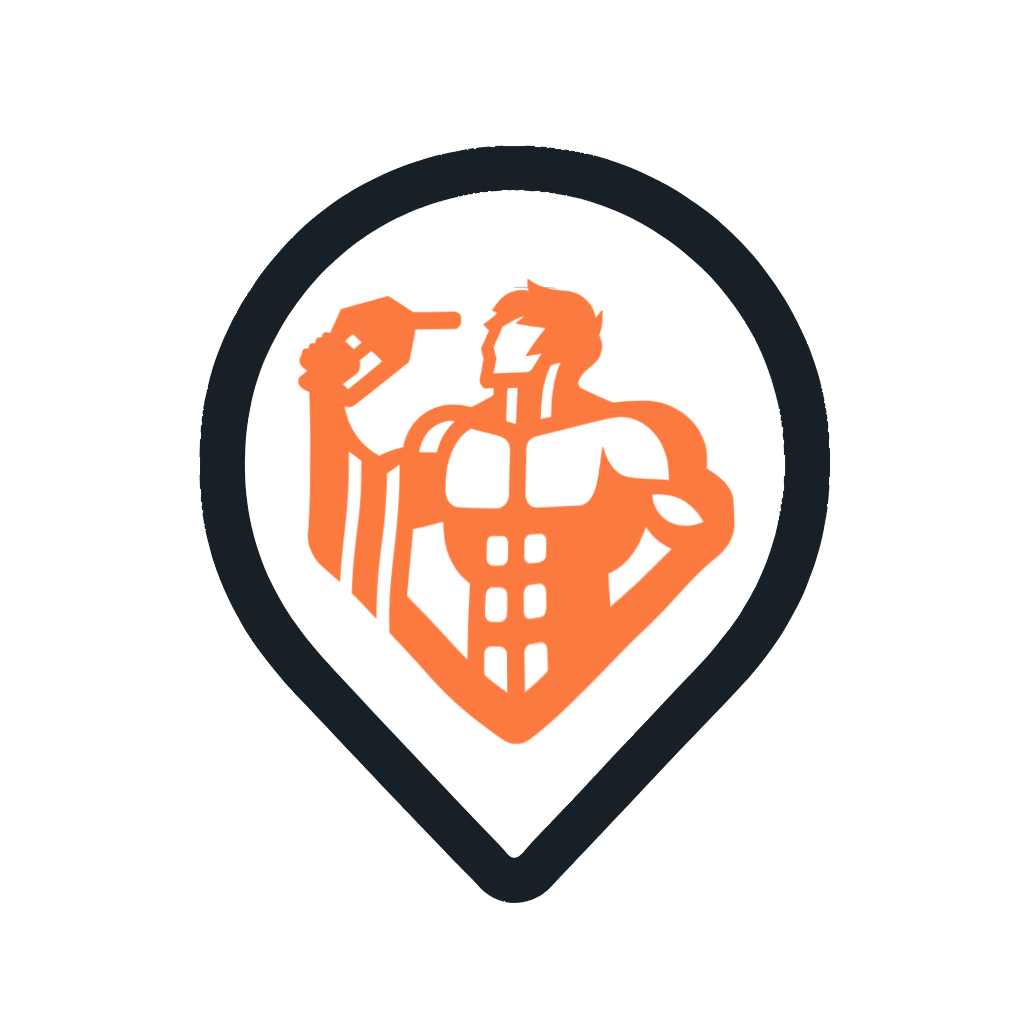
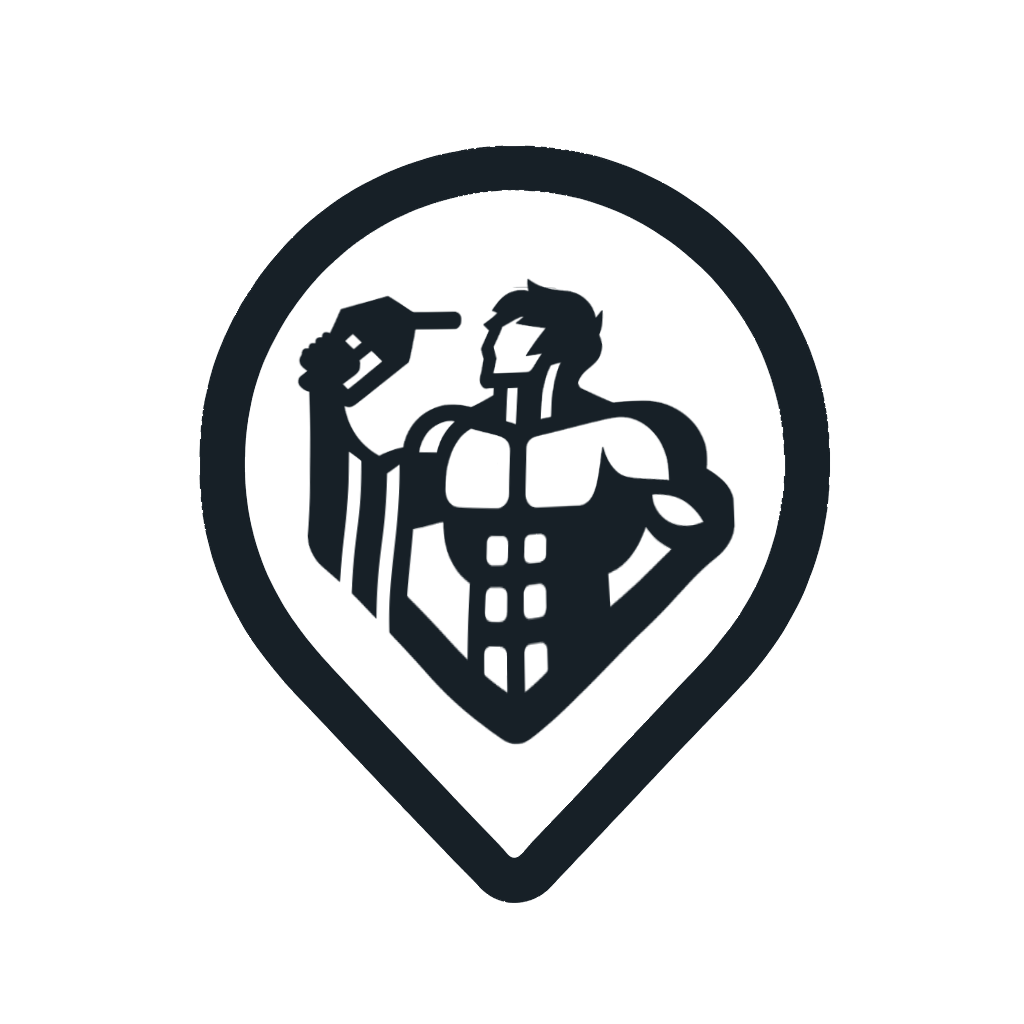
images changed

Changed region(s): [[0.2812, 0.2812, 0.7188, 0.75]]

diff --git a/src/app/map.service.ts b/src/app/map.service.ts
@@ -15,7 +15,6 @@ export class MapService {
   private geocoder!: google.maps.Geocoder;
   private placesService!: google.maps.places.PlacesService;
   private markers: google.maps.Marker[] = [];
-  selectedMarker!: google.maps.Marker | null;
 
   constructor(private http: HttpClient) {
     this.loader = new Loader({
@@ -131,7 +130,7 @@ export class MapService {
                         map: this.map,
                         title: place.name,
                         icon: {
-                            url: 'assets/tank_titan_pin_02.png', // Ursprüngliches Icon
+                            url: 'assets/tank_titan_pin_03.png', // Ursprüngliches Icon
                             scaledSize: new google.maps.Size(32, 32) // Größe des Icons anpassen
                         }
                     });
@@ -147,7 +146,7 @@ export class MapService {
                         // Setze den vorherigen aktiven Marker auf das ursprüngliche Icon zurück und schließe das InfoWindow
                         if (activeMarker) {
                             activeMarker.setIcon({
-                                url: 'assets/tank_titan_pin_02.png',
+                                url: 'assets/tank_titan_pin_03.png',
                                 scaledSize: new google.maps.Size(32, 32)
                             });
                         }
@@ -160,7 +159,7 @@ export class MapService {
                         activeInfoWindow = infowindow;
 
                         marker.setIcon({
-                            url: 'assets/tank_titan_pin_04.png',
+                            url: 'assets/tank_titan_pin_primary.png',
                             scaledSize: new google.maps.Size(32, 32)
                         });
 
@@ -205,7 +204,7 @@ addMarkers(stations: any[]): void {
                   map: this.map,
                   title: station.name,
                   icon: {
-                      url: 'assets/tank_titan_pin_02.png',
+                      url: 'assets/tank_titan_pin_03.png',
                       scaledSize: new google.maps.Size(50, 50)
                   }
               });
@@ -234,7 +233,7 @@ addMarkers(stations: any[]): void {
                   activeInfoWindow = infowindow;
 
                   marker.setIcon({
-                      url: 'assets/tank_titan_pin_04.png',
+                      url: 'assets/tank_titan_pin_primary.png',
                       scaledSize: new google.maps.Size(50, 50)
                   });
 
